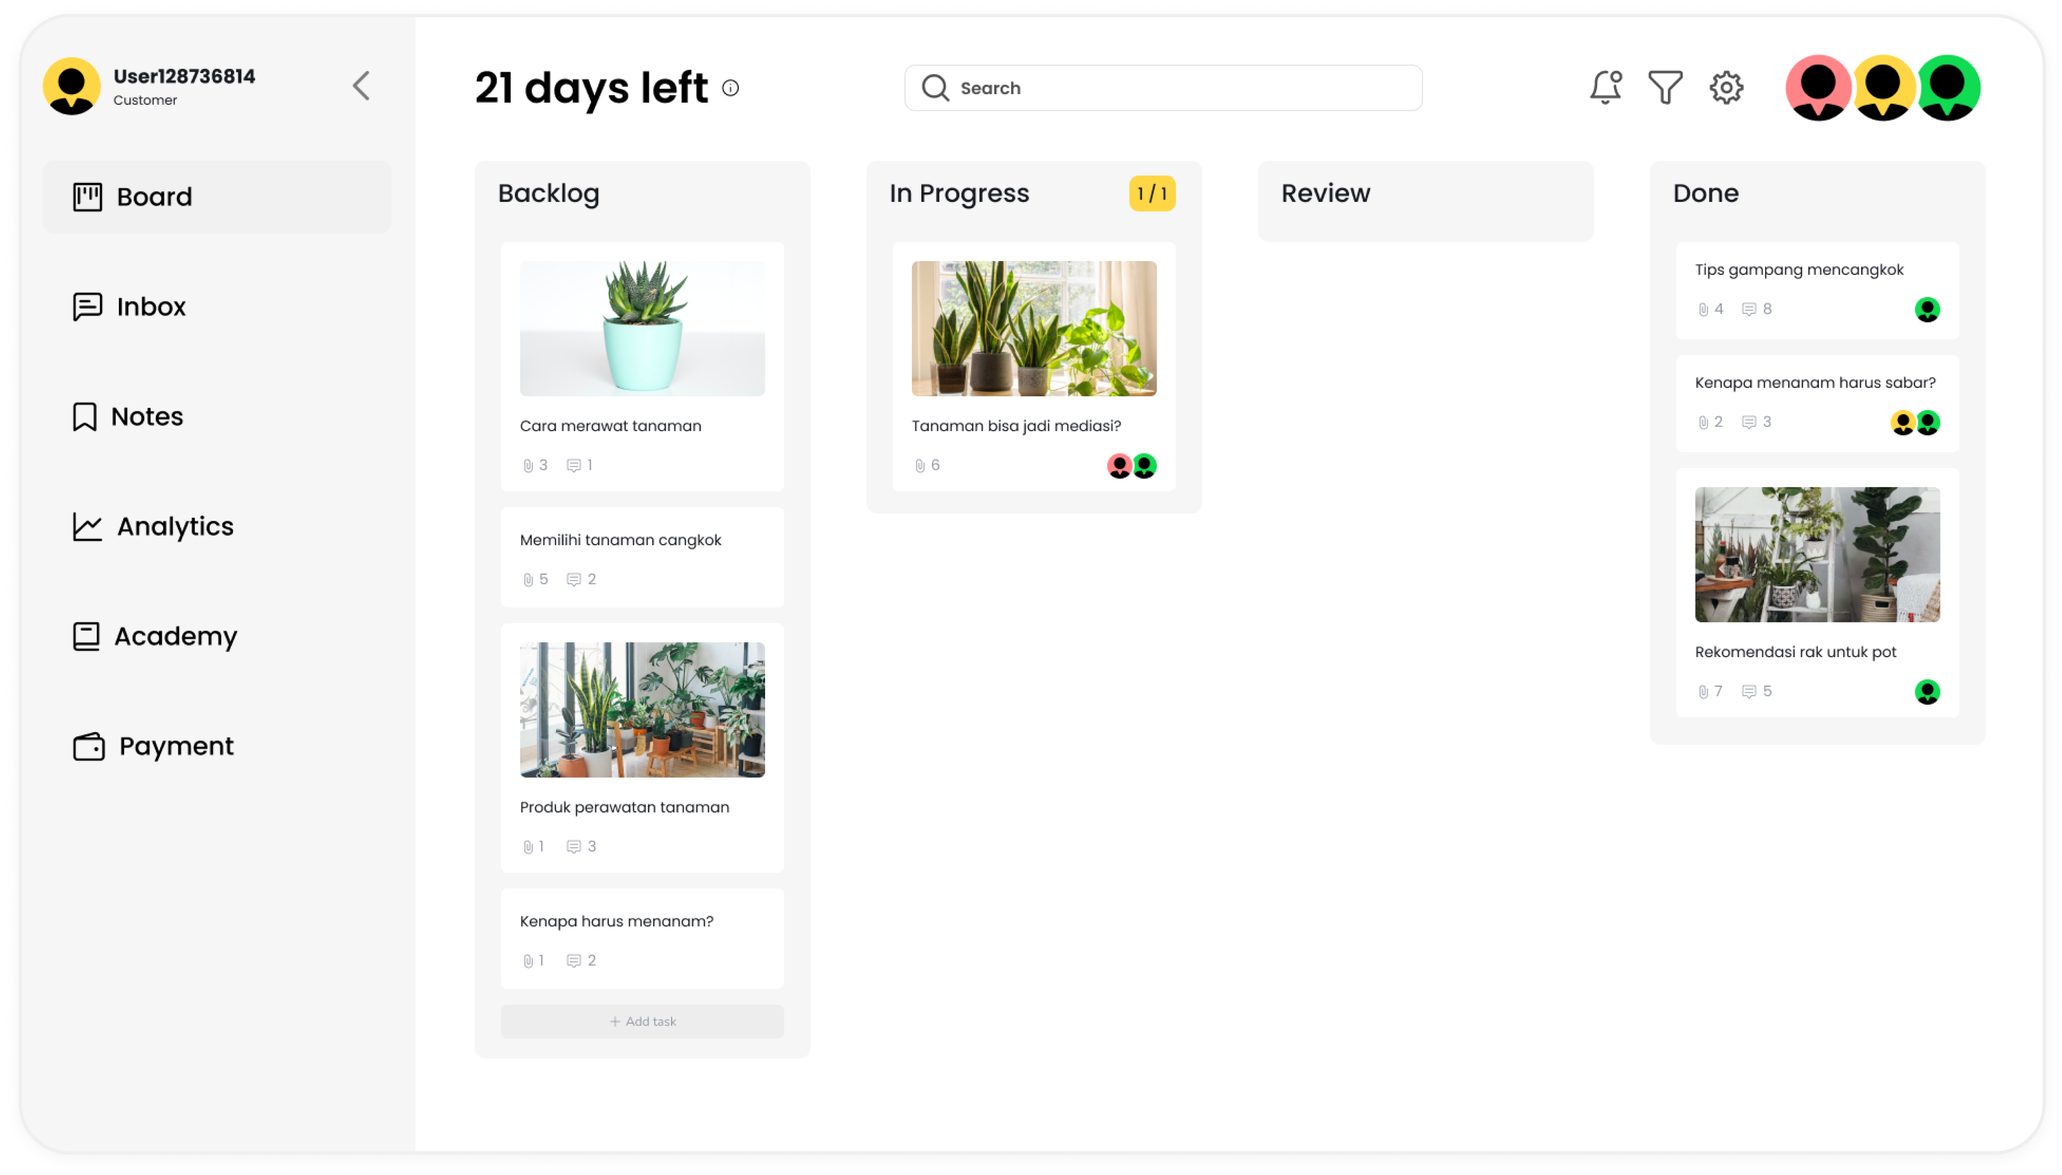
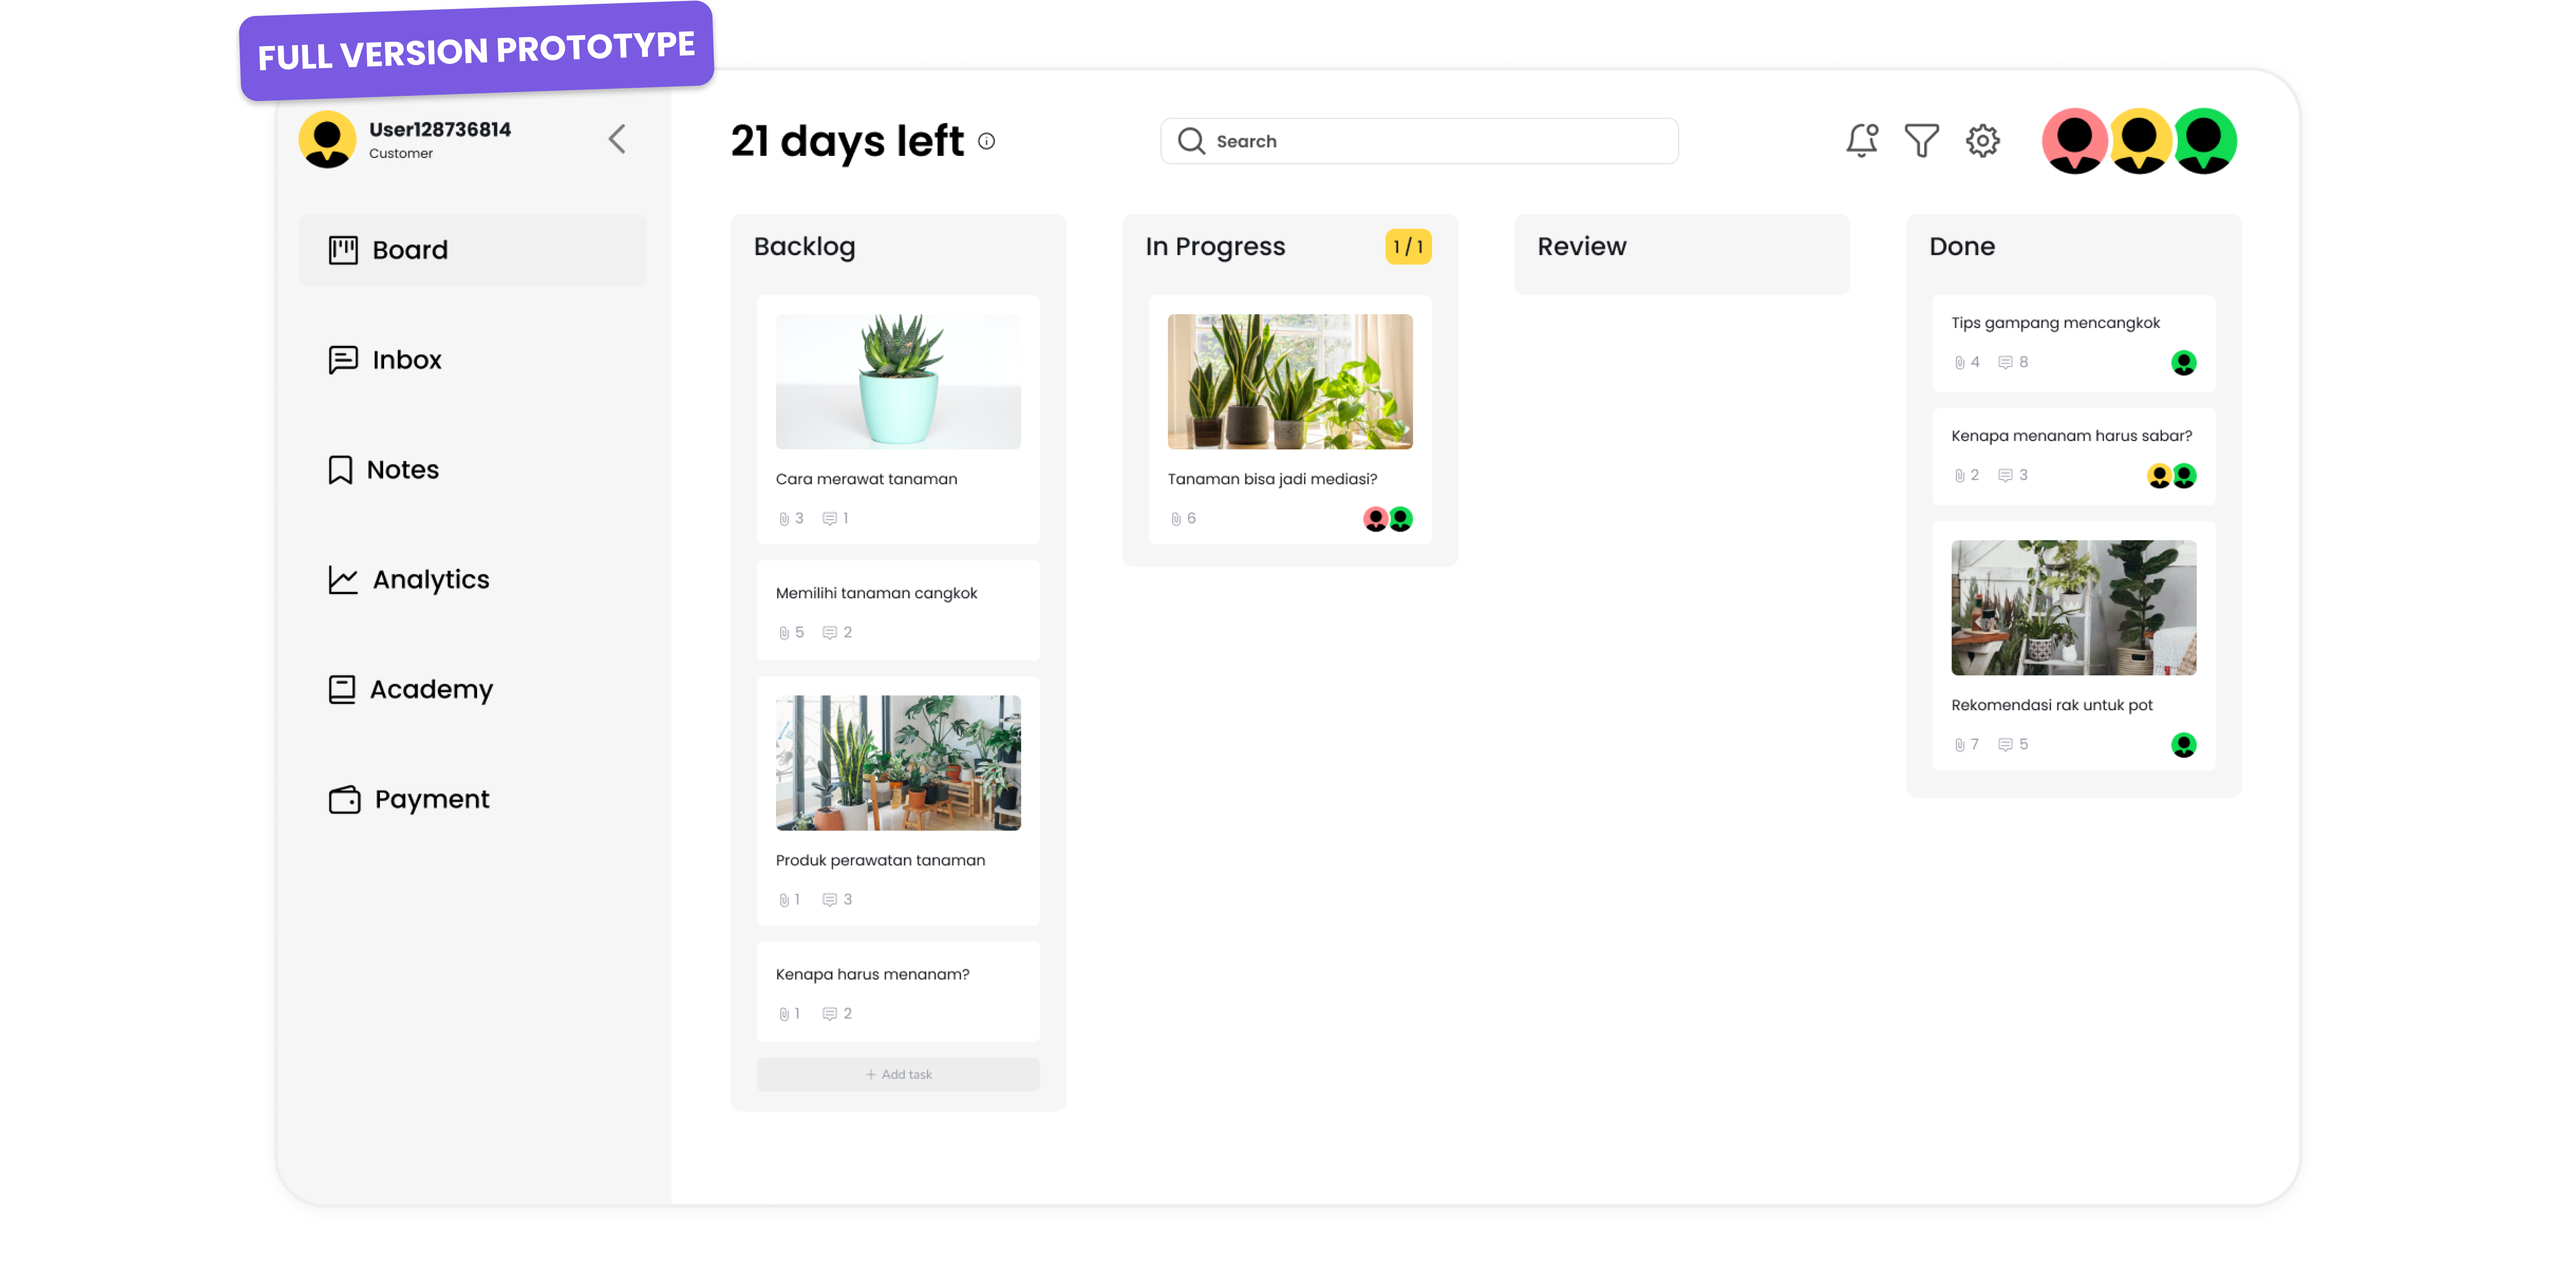
don bang

diff --git a/src/pages/Faq.jsx b/src/pages/Faq.jsx
@@ -1,4 +1,4 @@
-import React, {useEffect} from "react";
+import React, { useEffect } from "react";
 import Pen9 from "../assets/Pen9.png";
 import Faq from "../components/Faq";
 import Aos from "aos";
@@ -8,11 +8,10 @@ const FaQ = () => {
     Aos.refresh();
   }, []);
   return (
-    <div>
-      {" "}
+    <>
       <div id="faq"></div>
-      <div data-aos="fade-up" className="w-full py-32">
-        <div className="container rounded-xl mx-auto h-full">
+
+        <div className="w-9/12 rounded-xl mx-auto h-full">
           <p className="font-bold flex justify-center gap-x-5 text-5xl mb-14 pt-9">
             {" "}
             Pertanyaan umum
@@ -20,7 +19,7 @@ const FaQ = () => {
           <img
             src={Pen9}
             alt="pen9"
-            className="absolute -mt-28 left-96"
+            className="-mt-28 ml-52"
             width={100}
           />
 
@@ -91,8 +90,7 @@ const FaQ = () => {
             }
           />
         </div>
-      </div>
-    </div>
+    </>
   );
 };
 

diff --git a/src/pages/Sistem.jsx b/src/pages/Sistem.jsx
@@ -1,12 +1,7 @@
-import React, { useEffect } from "react";
+import React from "react";
 import { IoMdArrowForward } from "react-icons/io";
-import Prototype from "../assets/prototype.png";
-import Aos from "aos";
+import Prototype from "../assets/prototype.png"
 const Sistem = () => {
-  useEffect(() => {
-    Aos.init();
-    Aos.refresh();
-  }, []);
   return (
     <>
       {" "}
@@ -36,13 +31,8 @@ const Sistem = () => {
             Pelajari selengkapnya{" "}
             <IoMdArrowForward size={16} className="text-P2 font-bold" />{" "}
           </a>
-        </p>
-        <p className="absolute bg-P2 rounded-md px-3 py-2 text-white font-bold text-lg -rotate-3 -mt-96 left-32 shadow-md z-20">
-          FULL VERSION PROTOTYPE
-        </p>
-        <div>
-          <img src={Prototype} width={1200} className="mt-32" alt="prototype" />
-        </div>
+        </p>  
+        <img src={Prototype} width={1400} className="mt-16" alt="prototype" />
       </div>
     </>
   );
